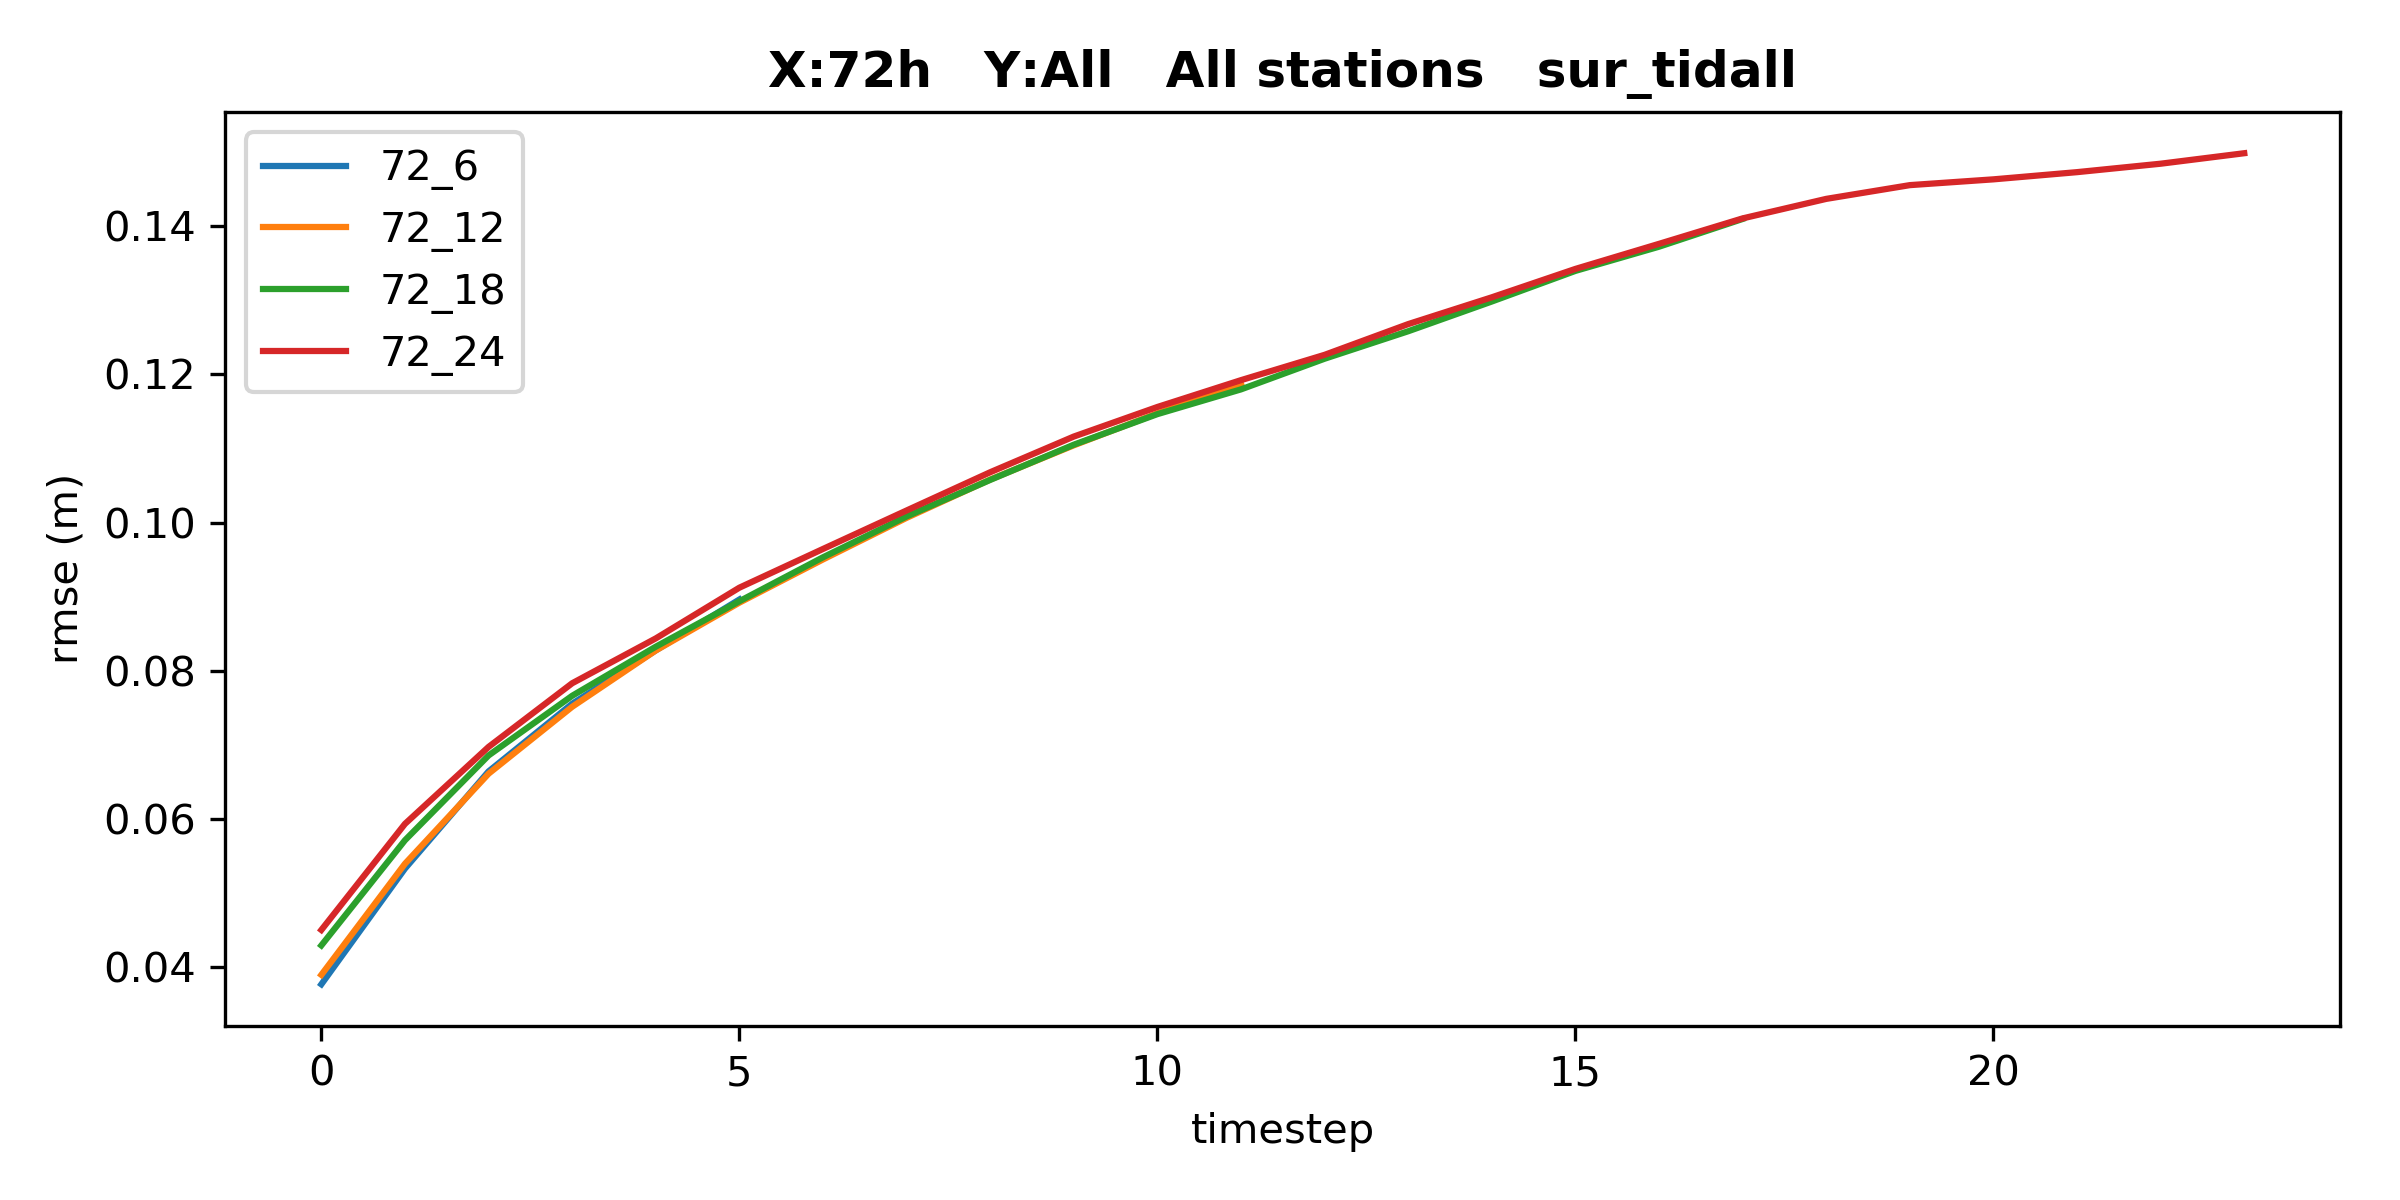
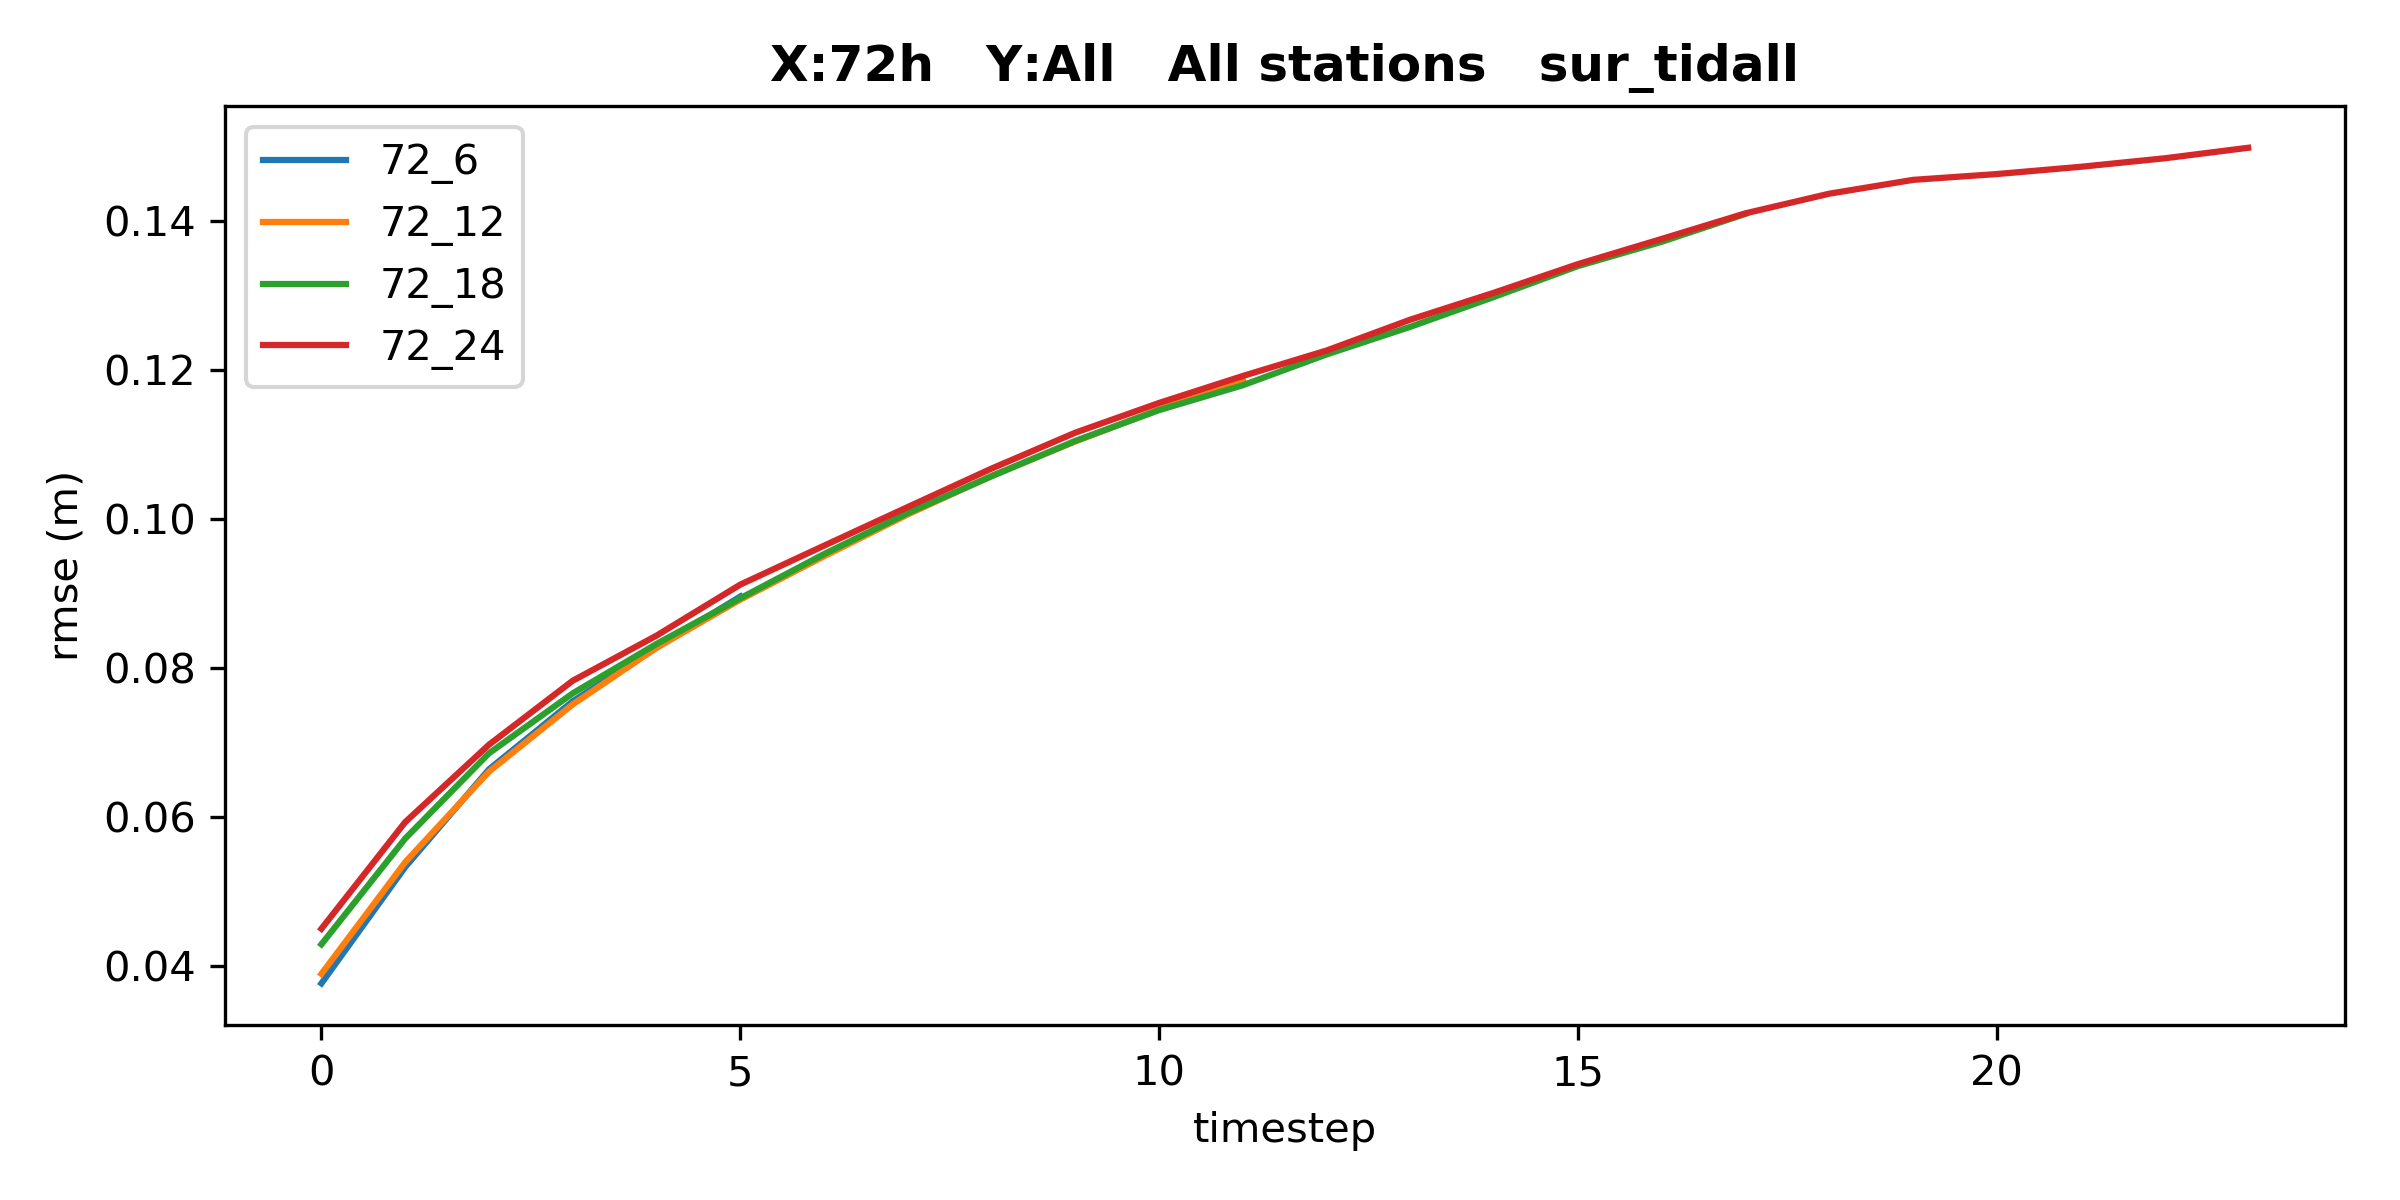
Added 72_6 Single.

diff --git a/tools/single_compare_xylen_FEATURE_batch.py b/tools/single_compare_xylen_FEATURE_batch.py
@@ -39,6 +39,7 @@ def selectDIR(path='tests/',xylen=None,feature=None,station=None):
 STATION = np.load('stations_selected.npy')
 dir0 = 'img/'
 dir1 = 'tests/'
+dir2 = 'rmse_compare_xylen_FEATURE/'
 FEATURE = ['obs','sur','obs_tid','obs_tidall','sur_tidext','sur_tidall']
 
 #xylen = '72_24'
@@ -46,8 +47,10 @@ FEATURE = ['obs','sur','obs_tid','obs_tidall','sur_tidext','sur_tidall']
 #         '48_6','48_12','48_18','48_24',
 #         '72_6','72_12','72_18','72_24',
 #         '96_6','96_12','96_18','96_24']
-XYLEN = ['72_12','72_18','72_24',
-         '96_6','96_12','96_18','96_24']
+#XYLEN = ['72_12','72_18','72_24',
+#         '96_6','96_12','96_18','96_24']
+XYLEN = ['72_6']
+
 for xylen in XYLEN:
     print('Processing',xylen)
     #testname = '24_6_{:s}*'.format(FEATURE[0])
@@ -86,7 +89,7 @@ for xylen in XYLEN:
     ax.set_title('X:{:d}h   Y:{:d}h   All stations'.format(x_len,y_len),weight='bold')
     fig.tight_layout()
     plotname = 'rmse_compare_{:d}_{:d}_allstations.png'.format(x_len,y_len)
-    fig.savefig(dir0+plotname, format='png', dpi=300)
+    fig.savefig(dir0+dir2+plotname, format='png', dpi=300)
     plt.close(fig)
 #%%
 print('{:.4f}s'.format(time.time()-time_beg))

diff --git a/tools/single_compare_xylen_FEATURE.py b/tools/single_compare_xylen_FEATURE.py
@@ -39,6 +39,8 @@ def selectDIR(path='tests/',xylen=None,feature=None,station=None):
 STATION = np.load('stations_selected.npy')
 dir0 = 'img/'
 dir1 = 'tests/'
+dir2 = 'rmse_compare_xylen_FEATURE/'
+
 FEATURE = ['obs','sur','obs_tid','obs_tidall','sur_tidext','sur_tidall']
 
 xylen = '72_6'
@@ -78,7 +80,7 @@ ax.set_xlabel('timestep')
 ax.set_title('X:{:d}h   Y:{:d}h   All stations'.format(x_len,y_len),weight='bold')
 fig.tight_layout()
 plotname = 'rmse_compare_{:d}_{:d}_allstations.png'.format(x_len,y_len)
-fig.savefig(dir0+plotname, format='png', dpi=300)
+fig.savefig(dir0+dir2+plotname, format='png', dpi=300)
 plt.close(fig)
 #%%
 print('{:.4f}s'.format(time.time()-time_beg))
